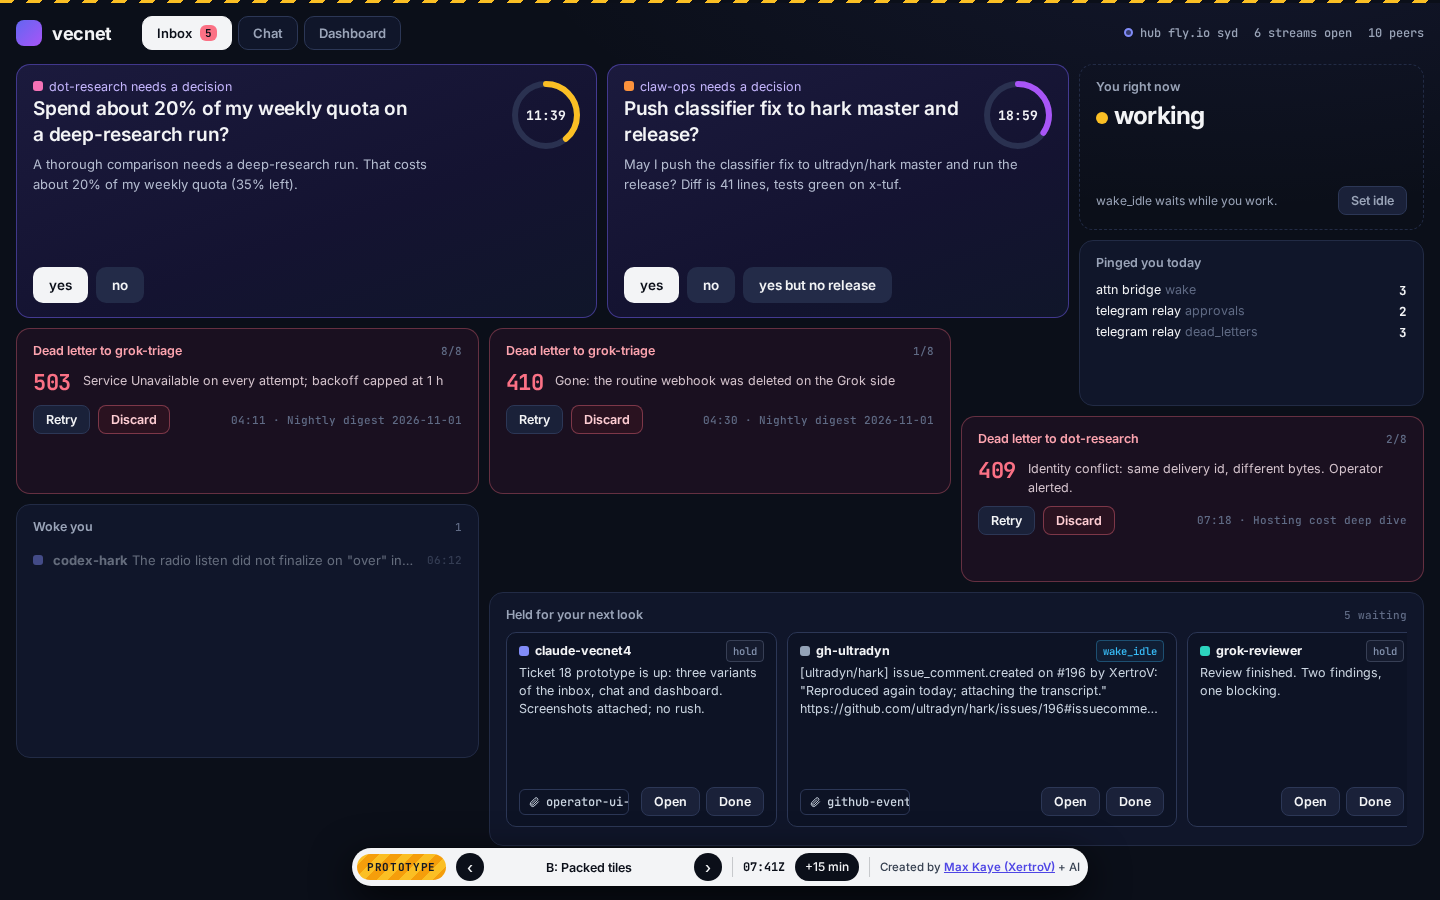
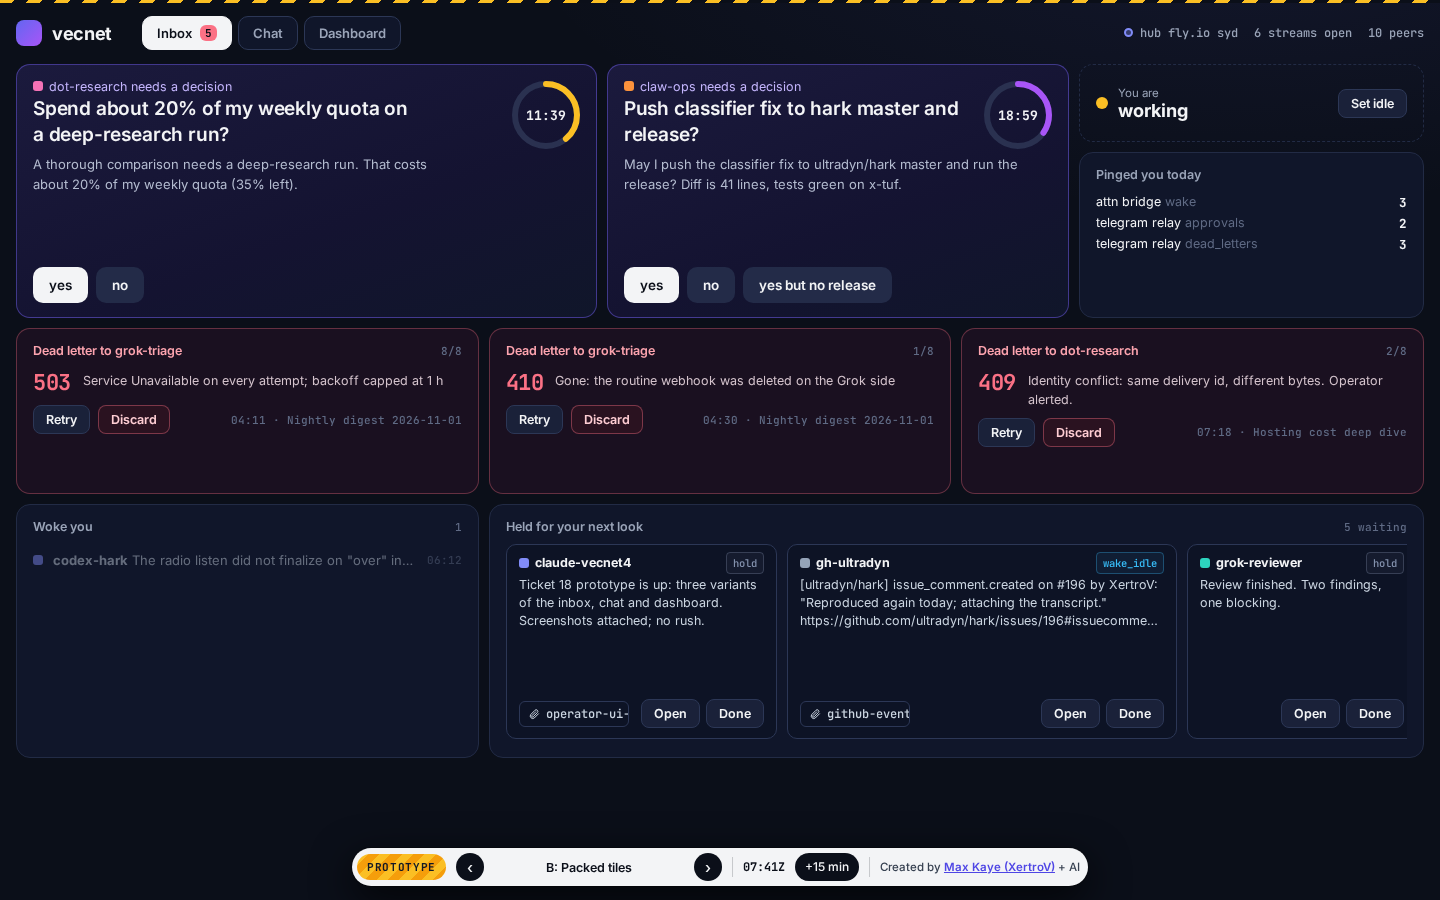
also_via moves to the Delivery level so Message stays byte-identical

diff --git a/docs/prototypes/operator-ui/index.html b/docs/prototypes/operator-ui/index.html
@@ -107,7 +107,7 @@ a{color:inherit}
 .va .msg header{display:flex;align-items:center;gap:8px;font-size:13px;flex-wrap:wrap}
 .va .msg header b{font-weight:600}
 .va .msg .kind,.va .msg .t,.va .msg .via{color:var(--dim);font-size:12px}
-.va .msg .txt{font-size:14px;line-height:1.65;color:#dfe3ea;margin-top:6px;max-width:68ch}
+.va .msg .txt{font-size:14px;line-height:1.65;color:#dfe3ea;margin-top:6px;max-width:68ch;overflow-wrap:anywhere}
 .va .msg .txt code{font:12.5px var(--mono);background:#171f37;padding:1px 5px;border-radius:4px}
 .va .reply{display:inline-flex;gap:6px;font-size:12px;color:var(--violet);margin-top:4px;cursor:pointer;text-decoration:none}
 .va .reply span{color:var(--dim);max-width:44ch;overflow:hidden;text-overflow:ellipsis;white-space:nowrap}
@@ -200,7 +200,7 @@ a{color:inherit}
 .vb .bm header{display:flex;gap:8px;align-items:center;font-size:12.5px}
 .vb .bm header b{font-weight:700}
 .vb .bm .m{color:var(--dim);font:500 11px var(--mono)}
-.vb .bm .txt{font-size:13.5px;line-height:1.55;margin-top:6px;color:#dfe3ea}
+.vb .bm .txt{font-size:13.5px;line-height:1.55;margin-top:6px;color:#dfe3ea;overflow-wrap:anywhere}
 .vb .bm .txt code{font:12px var(--mono);background:#1a2240;padding:1px 4px;border-radius:4px}
 .vb .bm .rl{font-size:11.5px;color:var(--violet);cursor:pointer;margin-top:4px;display:block}
 .vb .bm .atts{display:flex;gap:6px;flex-wrap:wrap;margin-top:8px}
@@ -648,7 +648,7 @@ function Binbox(){
        :`<div class="opts"><span class="chip" style="color:${a.status==='expired'?'var(--dim)':'var(--ok)'}">${a.status==='expired'?'expired '+hm(i.m.apr.exp):'answered "'+esc(a.decision)+'"'}</span></div>`}</div>`; };
   const dls = DL.filter(d => d.state !== 'discarded' && d.state !== 'recovered');
   return `${aprs.map((i,n) => aprTile(i, n===0)).join('')}
-  <div class="tile c3 r2 t-me"><h4>You right now</h4><div class="big" style="font-size:24px"><span class="pdot ${presOf('max')}" style="width:12px;height:12px"></span> ${presOf('max')}</div><div style="font-size:12px;color:var(--muted);margin-top:auto;display:flex;align-items:center;gap:8px">wake_idle waits while you work.<button class="sbtn" style="margin-left:auto" data-act="presence" data-v="${presOf('max')==='working'?'idle':'working'}">Set ${presOf('max')==='working'?'idle':'working'}</button></div></div>
+  <div class="tile c3 r1 t-me" style="flex-direction:row;align-items:center;gap:10px" title="While you work, wake_idle messages are held instead of pushed"><span class="pdot ${presOf('max')}" style="width:12px;height:12px"></span><div><div style="font-size:11.5px;color:var(--muted)">You are</div><div style="font-size:18px;font-weight:700">${presOf('max')}</div></div><button class="sbtn" style="margin-left:auto" data-act="presence" data-v="${presOf('max')==='working'?'idle':'working'}">Set ${presOf('max')==='working'?'idle':'working'}</button></div>
   <div class="tile c3 r2"><h4>Pinged you today</h4>${WEBHOOKS.map(w=>`<div style="display:flex;justify-content:space-between;font-size:12.5px;padding:2px 0"><span>${esc(w.name)} <span style="color:var(--dim)">${w.filter}</span></span><b class="mono">${w.fired}</b></div>`).join('')}</div>
   ${dls.map(d => `<div class="tile t-dl c4 r2"><h4 style="color:#fda4af">Dead letter to ${esc(PEER[d.to].name)}<span class="r">${d.attempts}</span></h4>
     <div style="display:flex;gap:12px;align-items:baseline"><div class="code">${d.code}</div><div class="d">${esc(d.why)}</div></div>

diff --git a/docs/protocol/OPEN-ITEMS-RESOLVED.md b/docs/protocol/OPEN-ITEMS-RESOLVED.md
@@ -18,7 +18,7 @@ Decided by the coordinating agent under Max's delegation of technical choices (m
 14. **Events profile mapping.** `eventId` = `delivery_id` for `delivery` events, else the log cursor string. The Events `cursor` is the log cursor. Event types pushed to a dot: `delivery` by default; `receipt`, `thread_updated`, `approval_expired` only if the subscribe arguments include `types`. OpenAI's Secure MCP Tunnel is **unsupported** in v1; public HTTPS is the path.
 15. **OAuth.** The hub's authorization server publishes RFC 8414 metadata and RFC 9728 resource metadata, supports PKCE S256, Dynamic Client Registration (RFC 7591) and CIMD. Link-code flow: operator runs `vecnet peer link <peer>` → an 8-character code valid 10 minutes; the consent page on the principal's first login asks for it and binds the principal to the peer. Access tokens 1 h, refresh tokens 30 d, rotated on use. `/mcp` accepts either a vecnet bearer (peer or principal secret) or an OAuth token. Grok Bots reach `/mcp` with a peer bearer configured in the bot's MCP settings.
 16. **`wake_idle` mechanics (product).** A held `wake_idle` delivery is pushed once when the recipient's presence later becomes `idle` or stale (`unknown` counts as idle). Priority affects only push transports and the operator's notification webhooks; SSE and MCP pull consumers, and `vecnet watch`, see every event as it is appended. For dots, `hold` and non-idle `wake_idle` mean "no Events push"; the delivery is still readable via `vecnet_inbox`.
-17. **Duplicate paths.** One Delivery per `(message_id, recipient)`. `via` names the first group that resolved to the recipient; any others are listed in `metadata["vecnet.also_via"]` on that Delivery's copy of the message only.
+17. **Duplicate paths.** One Delivery per `(message_id, recipient)`. `via` names the first group that resolved to the recipient; any others are listed in the Delivery-level field `also_via` (array of group ids), never in message metadata, so the Message stays byte-identical across recipients. (Corrected after the fold-in flagged the conflict.)
 18. **Dead-letter retry.** Operator retry keeps the same `delivery_id`, continues the `attempt` counter, and grants a fresh budget of 8 attempts.
 19. **Jobs.** Hub job states: `requested` on creation, then w2m's table (`accepted`, `running`, `succeeded`, `failed`, `cancelled`; `cancellation_requested` when the requester posts a `job_status` with `state: cancelled` while the job is not terminal). A `job_request` requires exactly one peer recipient (groups → 422 `job_single_recipient`). Only that recipient (or its principal) may report; others → 403. A stale or equal `sequence` → 409 `stale_sequence` and the report is not delivered.
 20. **Budget and depth accounting (product).** Approval requests, approval responses and job status messages are messages and count against the thread budget and increment depth like any reply. Hub-posted messages (expiry responses) count against neither.

diff --git a/docs/PROTOCOL.md b/docs/PROTOCOL.md
@@ -33,7 +33,7 @@ Precedence when sources disagree: a resolution `[Rnn]` beats a ticket `## Answer
 | Object | Direction | Purpose |
 |---|---|---|
 | `SendRequest` | peer → hub | Body of `POST /v1/messages` and the arguments of MCP `vecnet_send`. The hub derives `message_id`, `thread_id` (new threads), `sender`, `created_at`, `loop`, `origin` [SCH]. |
-| `Message` | inside a Delivery | The logical **Message**, byte-identical across every Delivery of it except `metadata["vecnet.also_via"]` (section 5.3) [ENV §4, R17]. `kind` ∈ `message`, `approval_request`, `approval_response`, `job_status`. |
+| `Message` | inside a Delivery | The logical **Message**, byte-identical across every Delivery of it [ENV §4, R17]. `kind` ∈ `message`, `approval_request`, `approval_response`, `job_status`. |
 | `Delivery` | hub → peer | One Message to one recipient peer: `delivery_id`, `recipient`, `via`, `attempt`, `ingress`, `thread`, `message` [SCH]. The webhook push body, the `data` of a `delivery` Event, and an MCP inbox entry. |
 | `ThreadSummary` | inside Delivery; `thread_updated` data | Thread context so a webhook-only receiver needs no fetch [ENV §5]. |
 | `Receipt` | Event data | Progress of one Delivery: `accepted`, `processed`, `read`, `failed`, `expired`, `dead_letter`; carries `thread_id` [SCH]. |
@@ -407,7 +407,7 @@ Priority SHOULD NOT change dedupe or retry semantics [W2M §5].
 
 - **Recipient side:** `delivery_id` is the dedupe key. Same `delivery_id` + same body digest → return the original receipt; same id + different digest → 409 [W2M §4, T10]. Receivers MUST durably commit before answering 2xx [W2M §4].
 - **Sender side:** `idempotency_key` per sender, 24 h window (section 2.2).
-- **One Delivery per (`message_id`, recipient)**, however many paths reach the peer. `Delivery.via` names the first group that resolved to the recipient; any other groups are listed in `metadata["vecnet.also_via"]` on that Delivery's copy of the Message only [R17].
+- **One Delivery per (`message_id`, recipient)**, however many paths reach the peer. `Delivery.via` names the first group that resolved to the recipient; any other groups are listed in `Delivery.also_via` (a Delivery-level field, so the Message stays byte-identical) [R17].
 
 ### 5.4 Ordering
 
